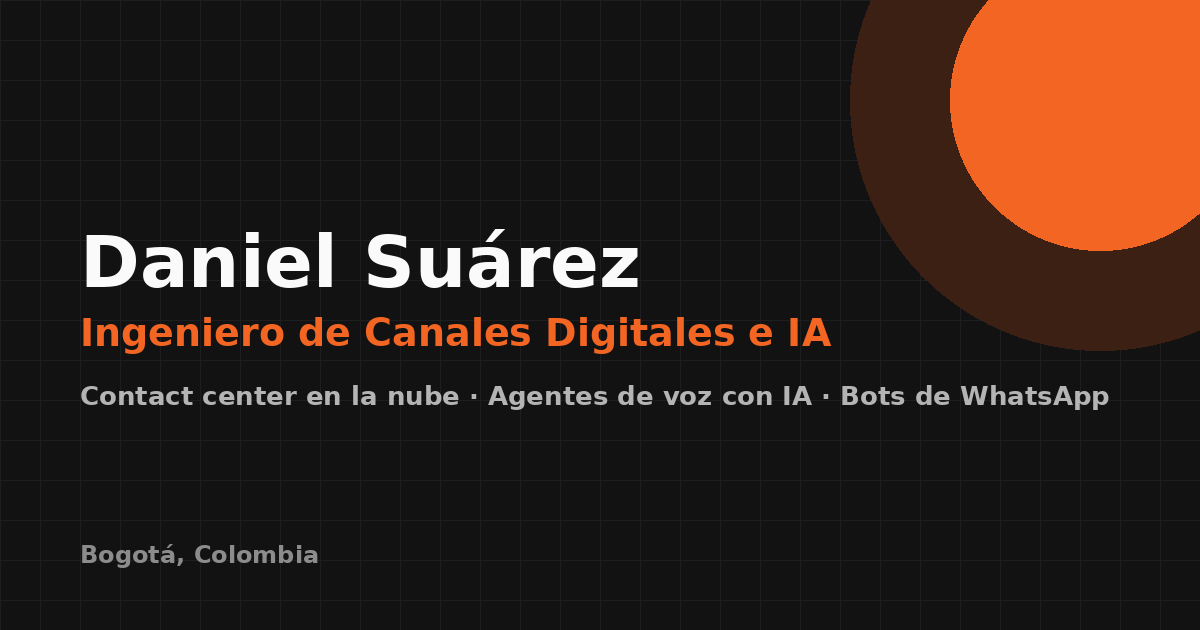
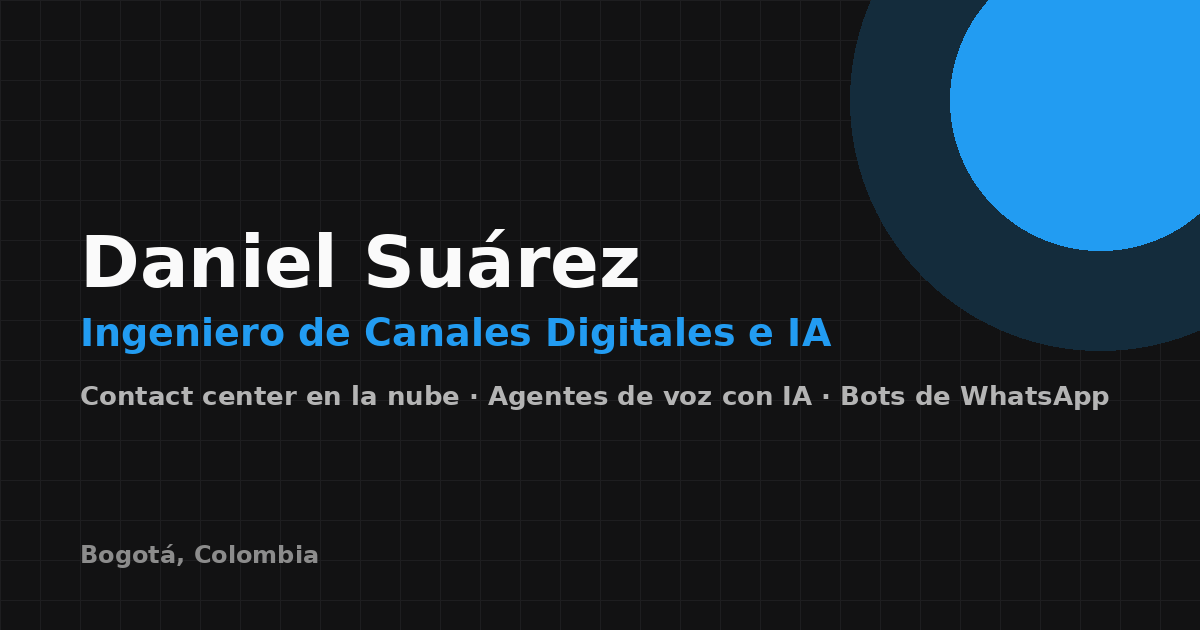
Switch accent color from orange to VS Code blue

Changed region(s): [[0.7092, 0.0, 1.0, 0.573], [0.0617, 0.4825, 0.7092, 0.573]]

diff --git a/assets/css/style.css b/assets/css/style.css
@@ -3,10 +3,10 @@
 :root {
     --bg-gradient-onyx: linear-gradient(to bottom right, hsl(240, 1%, 25%) 3%, hsl(0, 0%, 19%) 97%);
     --bg-gradient-jet: linear-gradient(to bottom right, hsla(240, 1%, 18%, .251) 3%, hsla(240, 2%, 11%, 0) 100%), hsl(240, 2%, 13%);
-    --bg-gradient-yellow1: linear-gradient(to bottom right, hsl(202, 89%, 54%) 0%, hsla(20, 89%, 54%, 0) 50%);
-    --bg-gradient-yellow2: linear-gradient(135deg, hsla(20, 89%, 54%, .251) 0%, hsla(20, 89%, 54%, 0) 59.86%), hsl(240, 2%, 13%);
+    --bg-gradient-blue1: linear-gradient(to bottom right, hsl(205, 87%, 53%) 0%, hsla(205, 87%, 53%, 0) 50%);
+    --bg-gradient-blue2: linear-gradient(135deg, hsla(205, 87%, 53%, .251) 0%, hsla(205, 87%, 53%, 0) 59.86%), hsl(240, 2%, 13%);
     --border-gradient-onyx: linear-gradient(to bottom right, hsl(0, 0%, 25%) 0%, hsla(0, 0%, 25%, 0) 50%);
-    --text-gradient-yellow: linear-gradient(to right, hsl(20, 89%, 60%), hsl(32, 95%, 60%));
+    --text-gradient-blue: linear-gradient(to right, hsl(205, 87%, 58%), hsl(195, 90%, 60%));
 
     --jet: hsl(0, 0%, 22%);
     --onyx: hsl(240, 1%, 17%);
@@ -15,8 +15,8 @@
     --smoky-black: hsl(0, 0%, 7%);
     --white1: hsl(0, 0%, 100%);
     --white2: hsl(0, 0%, 98%);
-    --orange-yellow-crayola: #F26522;
-    --vegas-gold: hsl(20, 70%, 50%);
+    --accent-blue: #1F9CF0;
+    --accent-blue-dark: hsl(205, 70%, 50%);
     --light-gray: hsl(0, 0%, 84%);
     --light-gray70: hsla(0, 0%, 84%, .7);
     --bittersweet-shimmer: hsl(0, 43%, 51%);
@@ -75,11 +75,11 @@ input, textarea {
 }
 
 ::selection {
-    background: var(--orange-yellow-crayola);
+    background: var(--accent-blue);
     color: var(--smoky-black);
 }
 
-:focus { outline-color: var(--orange-yellow-crayola); }
+:focus { outline-color: var(--accent-blue); }
 
 html { font-family: var(--ff-poppins); }
 
@@ -117,7 +117,7 @@ main {
     justify-content: center;
     align-items: center;
     font-size: 16px;
-    color: var(--orange-yellow-crayola);
+    color: var(--accent-blue);
     box-shadow: var(--shadow1);
     z-index: 1;
 }
@@ -170,7 +170,7 @@ article { display: none; }
         left: 0;
         width: 30px;
         height: 3px;
-        background: var(--text-gradient-yellow);
+        background: var(--text-gradient-blue);
         border-radius: 3px;
     }
 
@@ -185,7 +185,7 @@ article { display: none; }
 }
 
 .has-scrollbar::-webkit-scrollbar-thumb {
-    background: var(--orange-yellow-crayola);
+    background: var(--accent-blue);
     border-radius: 5px;
 }
 
@@ -338,7 +338,7 @@ article { display: none; }
 }
 
     .navbar-link:hover, .navbar-link:focus { color: var(--light-gray70); }
-    .navbar-link.active { color: var(--orange-yellow-crayola); }
+    .navbar-link.active { color: var(--accent-blue); }
 
 /*ABOUT*/
 
@@ -608,7 +608,7 @@ article { display: none; }
 }
 
     .timeline-list span {
-        color: var(--vegas-gold);
+        color: var(--accent-blue-dark);
         font-weight: var(--fw400);
         line-height: 1.6;
     }
@@ -634,7 +634,7 @@ article { display: none; }
         height: 6px;
         width: 6px;
         border-radius: 50%;
-        background: var(--text-gradient-yellow);
+        background: var(--text-gradient-blue);
         box-shadow: 0 0 0 4px var(--jet);
     }
 
@@ -680,7 +680,7 @@ article { display: none; }
 }
 
 .skills-progress-fill {
-    background: var(--text-gradient-yellow);
+    background: var(--text-gradient-blue);
     height: 100%;
     border-radius: inherit;
 }
@@ -800,7 +800,7 @@ article { display: none; }
     --scale: .8;
 
     background: var(--jet);
-    color: var(--orange-yellow-crayola);
+    color: var(--accent-blue);
     position: absolute;
     top: 50%;
     left: 50%;
@@ -907,7 +907,7 @@ article { display: none; }
     transition: var(--transition1);
 }
 
-    .blog-post-item > a:hover .blog-item-title { color: var(--orange-yellow-crayola); }
+    .blog-post-item > a:hover .blog-item-title { color: var(--accent-blue); }
 
 .blog-text {
     color: var(--light-gray);
@@ -960,7 +960,7 @@ article { display: none; }
 }
 
     .form-input::placeholder { font-weight: var(--fw500); }
-    .form-input:focus { border-color: var(--orange-yellow-crayola); }
+    .form-input:focus { border-color: var(--accent-blue); }
         .form-input:focus:invalid { border-color: var(--bittersweet-shimmer); }
 
 textarea.form-input {
@@ -977,7 +977,7 @@ textarea.form-input {
     position: relative;
     width: 100%;
     background: var(--border-gradient-onyx);
-    color: var(--orange-yellow-crayola);
+    color: var(--accent-blue);
     display: flex;
     justify-content: center;
     align-items: center;
@@ -1002,8 +1002,8 @@ textarea.form-input {
     }
 
     .form-btn ion-icon { font-size: 16px; }
-    .form-btn:hover { background: var(--bg-gradient-yellow1); }
-        .form-btn::before { background: var(--bg-gradient-yellow2); }
+    .form-btn:hover { background: var(--bg-gradient-blue1); }
+        .form-btn::before { background: var(--bg-gradient-blue2); }
 
     .form-btn:disabled {
         opacity: .7;
@@ -1257,7 +1257,7 @@ textarea.form-input {
     }
 
         .filter-item button:hover { color: var(--light-gray70); }
-        .filter-item button.active { color: var(--orange-yellow-crayola); }
+        .filter-item button.active { color: var(--accent-blue); }
 
     .project-list, .blog-posts-list { grid-template-columns: 1fr 1fr; }
 
@@ -1419,7 +1419,7 @@ textarea.form-input {
     box-shadow: var(--shadow1);
 }
     .tech-chip::before { content: ''; position: absolute; inset: 1px; border-radius: inherit; background: var(--eerie-black1); z-index: -1; }
-    .tech-chip ion-icon { font-size: 16px; color: var(--orange-yellow-crayola); display: inline-block; }
+    .tech-chip ion-icon { font-size: 16px; color: var(--accent-blue); display: inline-block; }
 
 /* Cifras rápidas en Sobre mí */
 .stats-list { display: grid; grid-template-columns: repeat(2, 1fr); gap: 15px; margin-bottom: 30px; }
@@ -1451,7 +1451,7 @@ textarea.form-input {
     .project-item > button:hover .project-item-icon-box { transform: translate(-50%, -50%) scale(1); opacity: 1; }
 .project-badge {
     position: absolute; top: 12px; left: 12px; z-index: 2;
-    background: var(--orange-yellow-crayola); color: var(--smoky-black);
+    background: var(--accent-blue); color: var(--smoky-black);
     font-size: 11px; font-weight: var(--fw600); padding: 4px 10px; border-radius: 999px;
 }
 .project-img { position: relative; background: var(--eerie-black1); }
@@ -1467,7 +1467,7 @@ textarea.form-input {
 .demo-media { border-radius: 12px; overflow: hidden; background: var(--smoky-black); margin: 30px 0 18px; aspect-ratio: 16 / 9; }
     .demo-media iframe, .demo-media video, .demo-media img { width: 100%; height: 100%; display: block; object-fit: cover; border: 0; }
     .demo-media.is-empty { display: grid; place-items: center; color: var(--light-gray70); font-size: var(--fs7); padding: 20px; text-align: center; }
-.demo-category { color: var(--orange-yellow-crayola); font-size: var(--fs8); font-weight: var(--fw500); margin-bottom: 6px; }
+.demo-category { color: var(--accent-blue); font-size: var(--fs8); font-weight: var(--fw500); margin-bottom: 6px; }
 .demo-title { color: var(--white2); margin-bottom: 10px; }
 .demo-text { color: var(--light-gray); font-size: var(--fs6); font-weight: var(--fw300); line-height: 1.6; margin-bottom: 16px; }
 .demo-stack { display: flex; flex-wrap: wrap; gap: 8px; margin-bottom: 18px; }
@@ -1475,11 +1475,11 @@ textarea.form-input {
 .demo-links { display: flex; flex-wrap: wrap; gap: 10px; }
 .demo-link {
     display: inline-flex; align-items: center; gap: 8px; padding: 10px 16px; border-radius: 12px;
-    background: var(--border-gradient-onyx); color: var(--orange-yellow-crayola); font-size: var(--fs7); font-weight: var(--fw500);
+    background: var(--border-gradient-onyx); color: var(--accent-blue); font-size: var(--fs7); font-weight: var(--fw500);
     position: relative; z-index: 1; box-shadow: var(--shadow2); transition: var(--transition1);
 }
     .demo-link::before { content: ''; position: absolute; inset: 1px; background: var(--eerie-black1); border-radius: inherit; z-index: -1; }
-    .demo-link:hover { background: var(--bg-gradient-yellow1); }
+    .demo-link:hover { background: var(--bg-gradient-blue1); }
     .demo-link ion-icon { display: inline-block; font-size: 16px; }
 .projects-empty { color: var(--light-gray70); font-size: var(--fs6); padding: 20px 0; }
 
@@ -1490,16 +1490,16 @@ textarea.form-input {
     background: var(--border-gradient-onyx); position: relative; z-index: 1; box-shadow: var(--shadow2); transition: var(--transition1);
 }
     .contact-card::before { content: ''; position: absolute; inset: 1px; background: var(--bg-gradient-jet); border-radius: inherit; z-index: -1; }
-    .contact-card:hover { background: var(--bg-gradient-yellow1); }
+    .contact-card:hover { background: var(--bg-gradient-blue1); }
     .contact-card .icon-box { width: 44px; height: 44px; font-size: 20px; flex-shrink: 0; }
     .contact-card-title { color: var(--white2); font-size: var(--fs6); font-weight: var(--fw500); }
     .contact-card-text { color: var(--light-gray70); font-size: var(--fs7); margin-top: 2px; word-break: break-all; }
 .form-note { color: var(--light-gray70); font-size: var(--fs8); margin-top: 12px; line-height: 1.5; }
-.form-status { color: var(--orange-yellow-crayola); font-size: var(--fs7); margin-top: 12px; min-height: 1.2em; }
+.form-status { color: var(--accent-blue); font-size: var(--fs7); margin-top: 12px; min-height: 1.2em; }
 
 /* Accesibilidad y movimiento reducido */
 .visually-hidden { position: absolute; width: 1px; height: 1px; overflow: hidden; clip: rect(0 0 0 0); white-space: nowrap; }
-button:focus-visible, a:focus-visible { outline: 2px solid var(--orange-yellow-crayola); outline-offset: 2px; }
+button:focus-visible, a:focus-visible { outline: 2px solid var(--accent-blue); outline-offset: 2px; }
 @media (prefers-reduced-motion: reduce) {
     *, *::before, *::after { transition-duration: .01ms !important; animation-duration: .01ms !important; }
 }

diff --git a/index.html b/index.html
@@ -113,7 +113,7 @@
 
                     <ul class="service-list">
                         <li class="service-item">
-                            <div class="service-icon-box"><ion-icon name="mic-outline" style="font-size:40px;color:#F26522"></ion-icon></div>
+                            <div class="service-icon-box"><ion-icon name="mic-outline" style="font-size:40px;color:var(--accent-blue)"></ion-icon></div>
                             <div class="service-content-box">
                                 <h4 class="h4 service-item-title">Agentes de voz con IA</h4>
                                 <p class="service-item-text">Agentes conversacionales que llaman, atienden y califican clientes usando modelos de lenguaje, voz a texto y texto a voz sobre telefonía SIP.</p>
@@ -121,7 +121,7 @@
                         </li>
 
                         <li class="service-item">
-                            <div class="service-icon-box"><ion-icon name="chatbubbles-outline" style="font-size:40px;color:#F26522"></ion-icon></div>
+                            <div class="service-icon-box"><ion-icon name="chatbubbles-outline" style="font-size:40px;color:var(--accent-blue)"></ion-icon></div>
                             <div class="service-content-box">
                                 <h4 class="h4 service-item-title">Bots de WhatsApp y chat</h4>
                                 <p class="service-item-text">Flujos conversacionales en Genesys Cloud integrados con WhatsApp Business API, encuestas automatizadas y traspaso con contexto al asesor.</p>
@@ -129,7 +129,7 @@
                         </li>
 
                         <li class="service-item">
-                            <div class="service-icon-box"><ion-icon name="call-outline" style="font-size:40px;color:#F26522"></ion-icon></div>
+                            <div class="service-icon-box"><ion-icon name="call-outline" style="font-size:40px;color:var(--accent-blue)"></ion-icon></div>
                             <div class="service-content-box">
                                 <h4 class="h4 service-item-title">Contact center en la nube</h4>
                                 <p class="service-item-text">Diseño de IVR, enrutamiento por habilidades, troncales SIP BYOC con carriers locales e integraciones por API con los sistemas del negocio.</p>
@@ -137,7 +137,7 @@
                         </li>
 
                         <li class="service-item">
-                            <div class="service-icon-box"><ion-icon name="bar-chart-outline" style="font-size:40px;color:#F26522"></ion-icon></div>
+                            <div class="service-icon-box"><ion-icon name="bar-chart-outline" style="font-size:40px;color:var(--accent-blue)"></ion-icon></div>
                             <div class="service-content-box">
                                 <h4 class="h4 service-item-title">Analítica de la operación</h4>
                                 <p class="service-item-text">Tableros en Power BI conectados a las APIs de Genesys y pilotos de Speech Analytics para medir el 100 % de las interacciones.</p>
